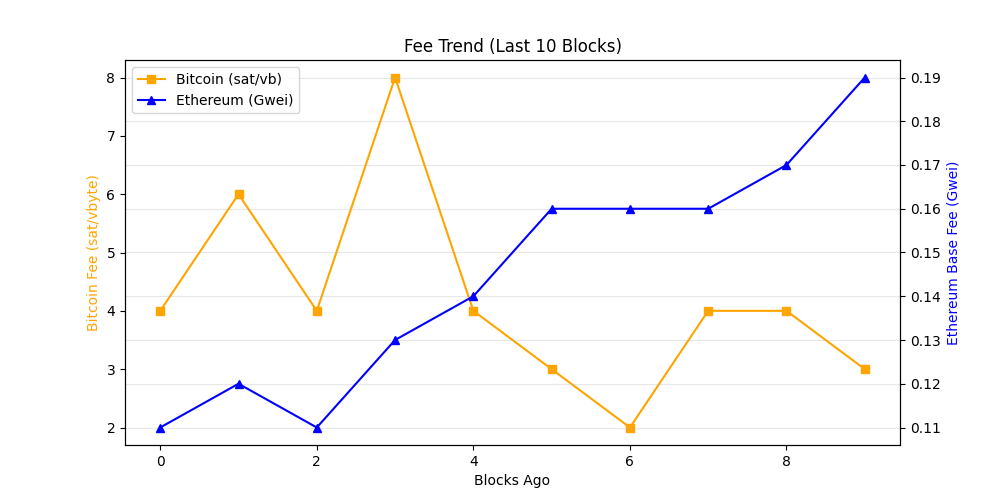
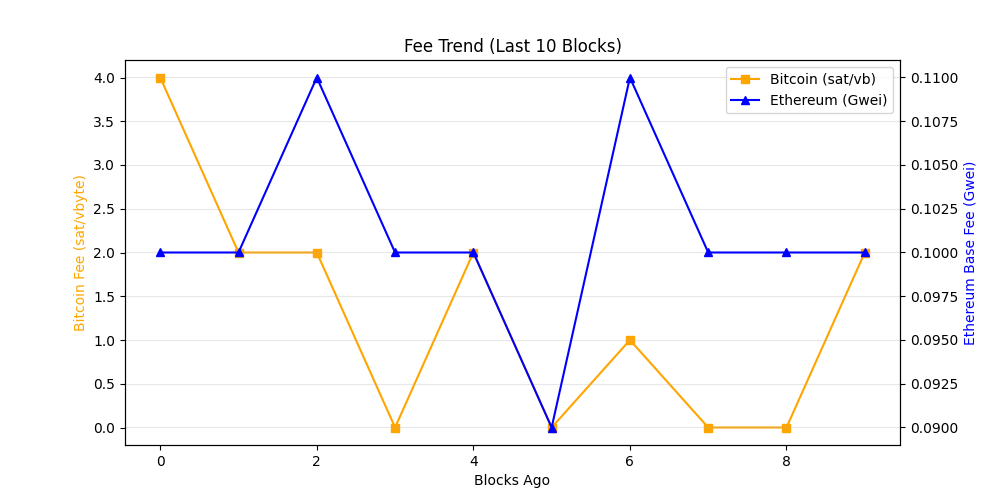
chore: update on-chain dashboard

diff --git a/README.md b/README.md
@@ -19,7 +19,7 @@ The README itself acts as the dashboard and is regenerated automatically on a 6 
 demonstrating a production-style, infrastructure-focused observability workflow rather
 than a traditional UI-driven approach.
 
-_Last updated: 2026-11-17 20:52 UTC_
+_Last updated: 2026-11-18 07:23 UTC_
 
 ## API Usage (GetBlock.io)
 - Calls used: **24**
@@ -27,8 +27,8 @@ _Last updated: 2026-11-17 20:52 UTC_
 ## Network Metrics
 | Chain | Block Height | TX Count | TPS (10 blk avg) | Block Util | Avg Fee |
 |------|-------------|----------|------------------|------------|---------|
-| Ethereum | 26437276 | 316 | 26.33 | 59.98% | 0.2 Gwei |
-| Bitcoin | 976320 | 2798 | 5.64 | 99.79% | N/A |
+| Ethereum | 26440422 | 215 | 17.92 | 33.06% | 0.1 Gwei |
+| Bitcoin | 976396 | 2594 | 2.07 | 99.88% | N/A |
 
 ## Visuals
 ### Transactions Trend
@@ -43,11 +43,11 @@ _Last updated: 2026-11-17 20:52 UTC_
 ## Whale Alerts (latest block)
 - Transaction hashes are truncated for readability.
 - Full hashes are available in `dashboards/metrics.json`
-- Bitcoin | 362.3 BTC | `45aeba480c8e…`
-- Bitcoin | 486.67 BTC | `60411f23c13d…`
-- Bitcoin | 309.87 BTC | `2b203c7874e0…`
-- Bitcoin | 324.4 BTC | `f8f9d47fbfce…`
-- Bitcoin | 139.97 BTC | `663168a05a71…`
+- Bitcoin | 107.45 BTC | `0733c8239a4d…`
+- Bitcoin | 332.13 BTC | `7ace2f030090…`
+- Bitcoin | 281.55 BTC | `e939c66cd5e0…`
+- Bitcoin | 433.21 BTC | `d72fd40ac17b…`
+- Bitcoin | 100.32 BTC | `aa3569120e5e…`
 
 ## Run locally
 
